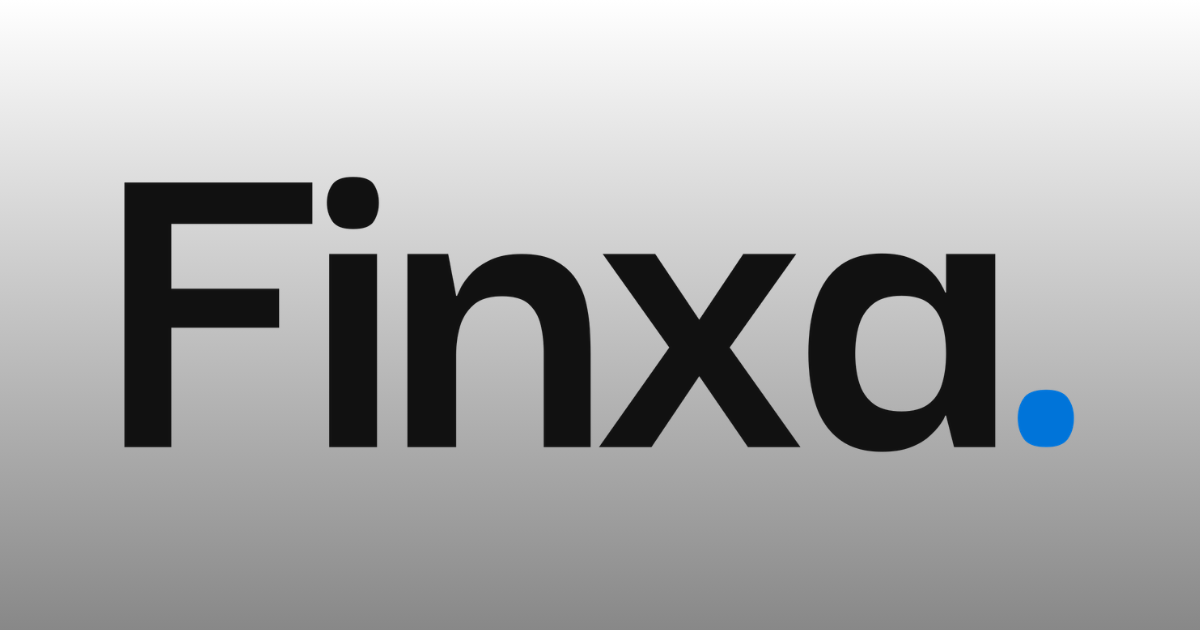
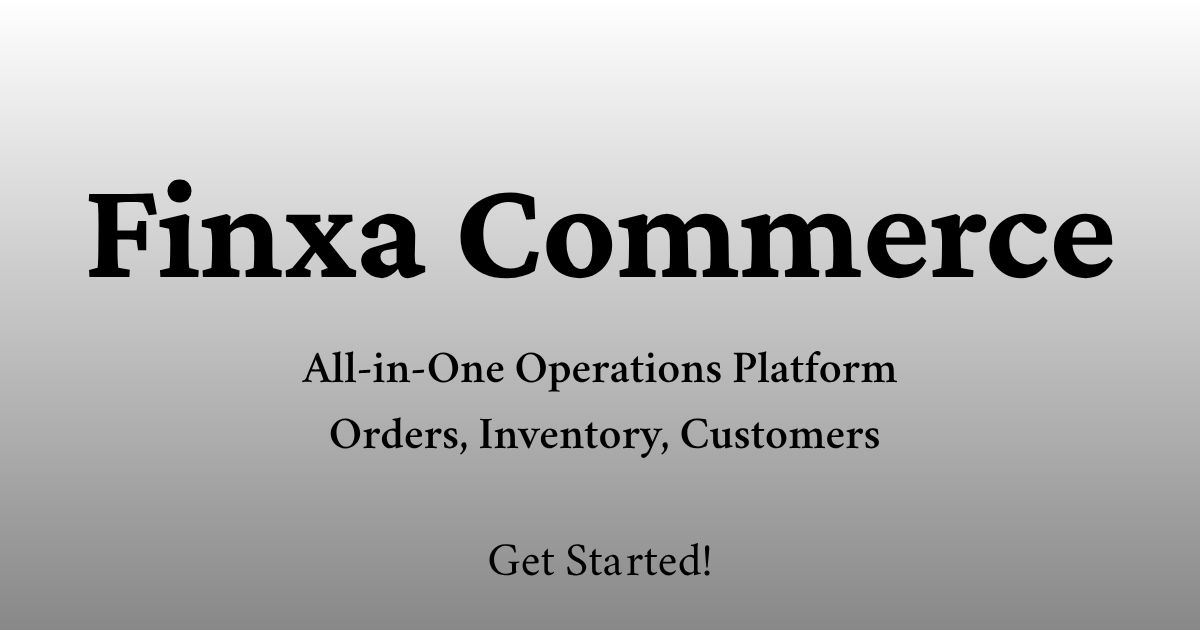
Changed OpenGraph image

Changed region(s): [[0.0617, 0.2714, 0.925, 0.7238], [0.4008, 0.8444, 0.5858, 0.9349]]

diff --git a/src/app/page.tsx b/src/app/page.tsx
@@ -14,7 +14,7 @@ export const metadata: Metadata = {
     siteName: "Finxa Commerce",
     images: [
       {
-        url: "/Finxa.wll.png",
+        url: "https://my-platform-site.vercel.app/Finxa.png",
         width: 1200,
         height: 630,
       },
